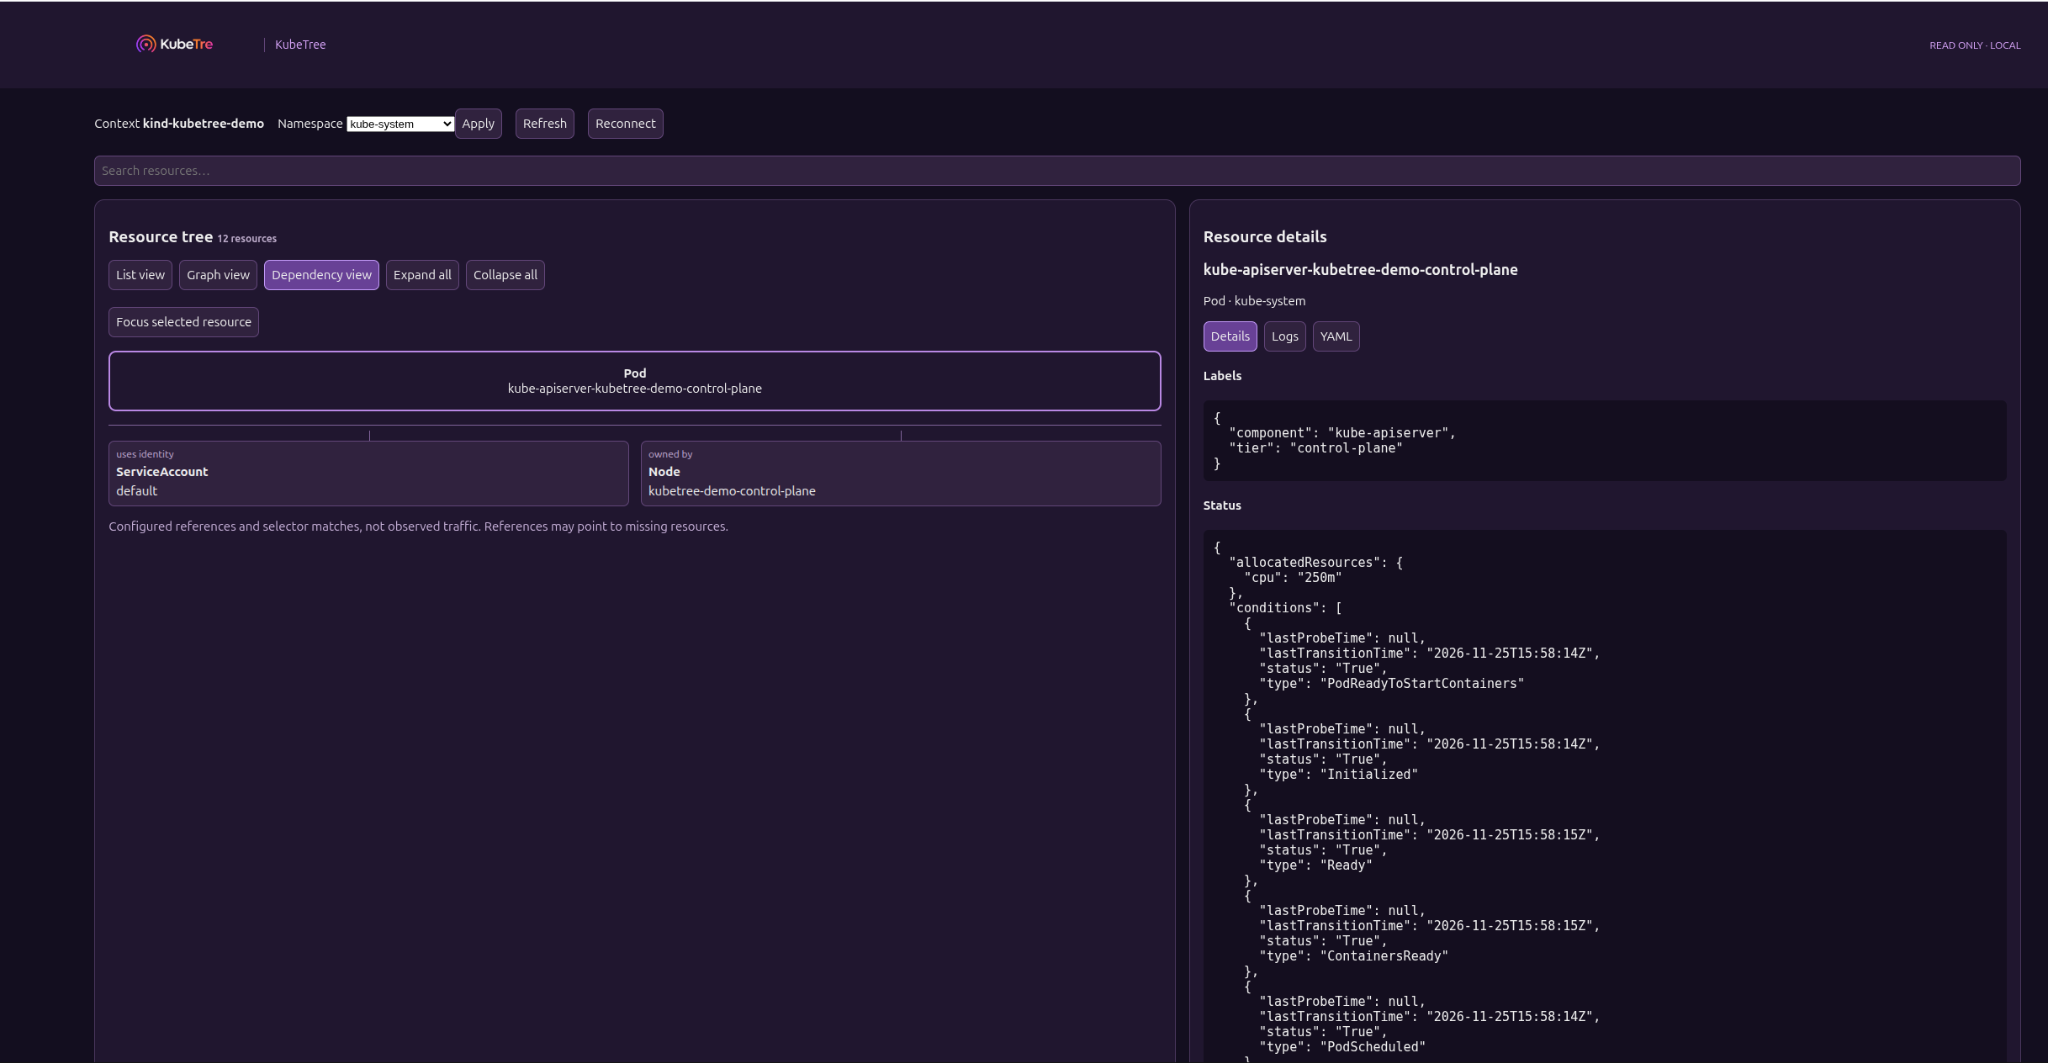
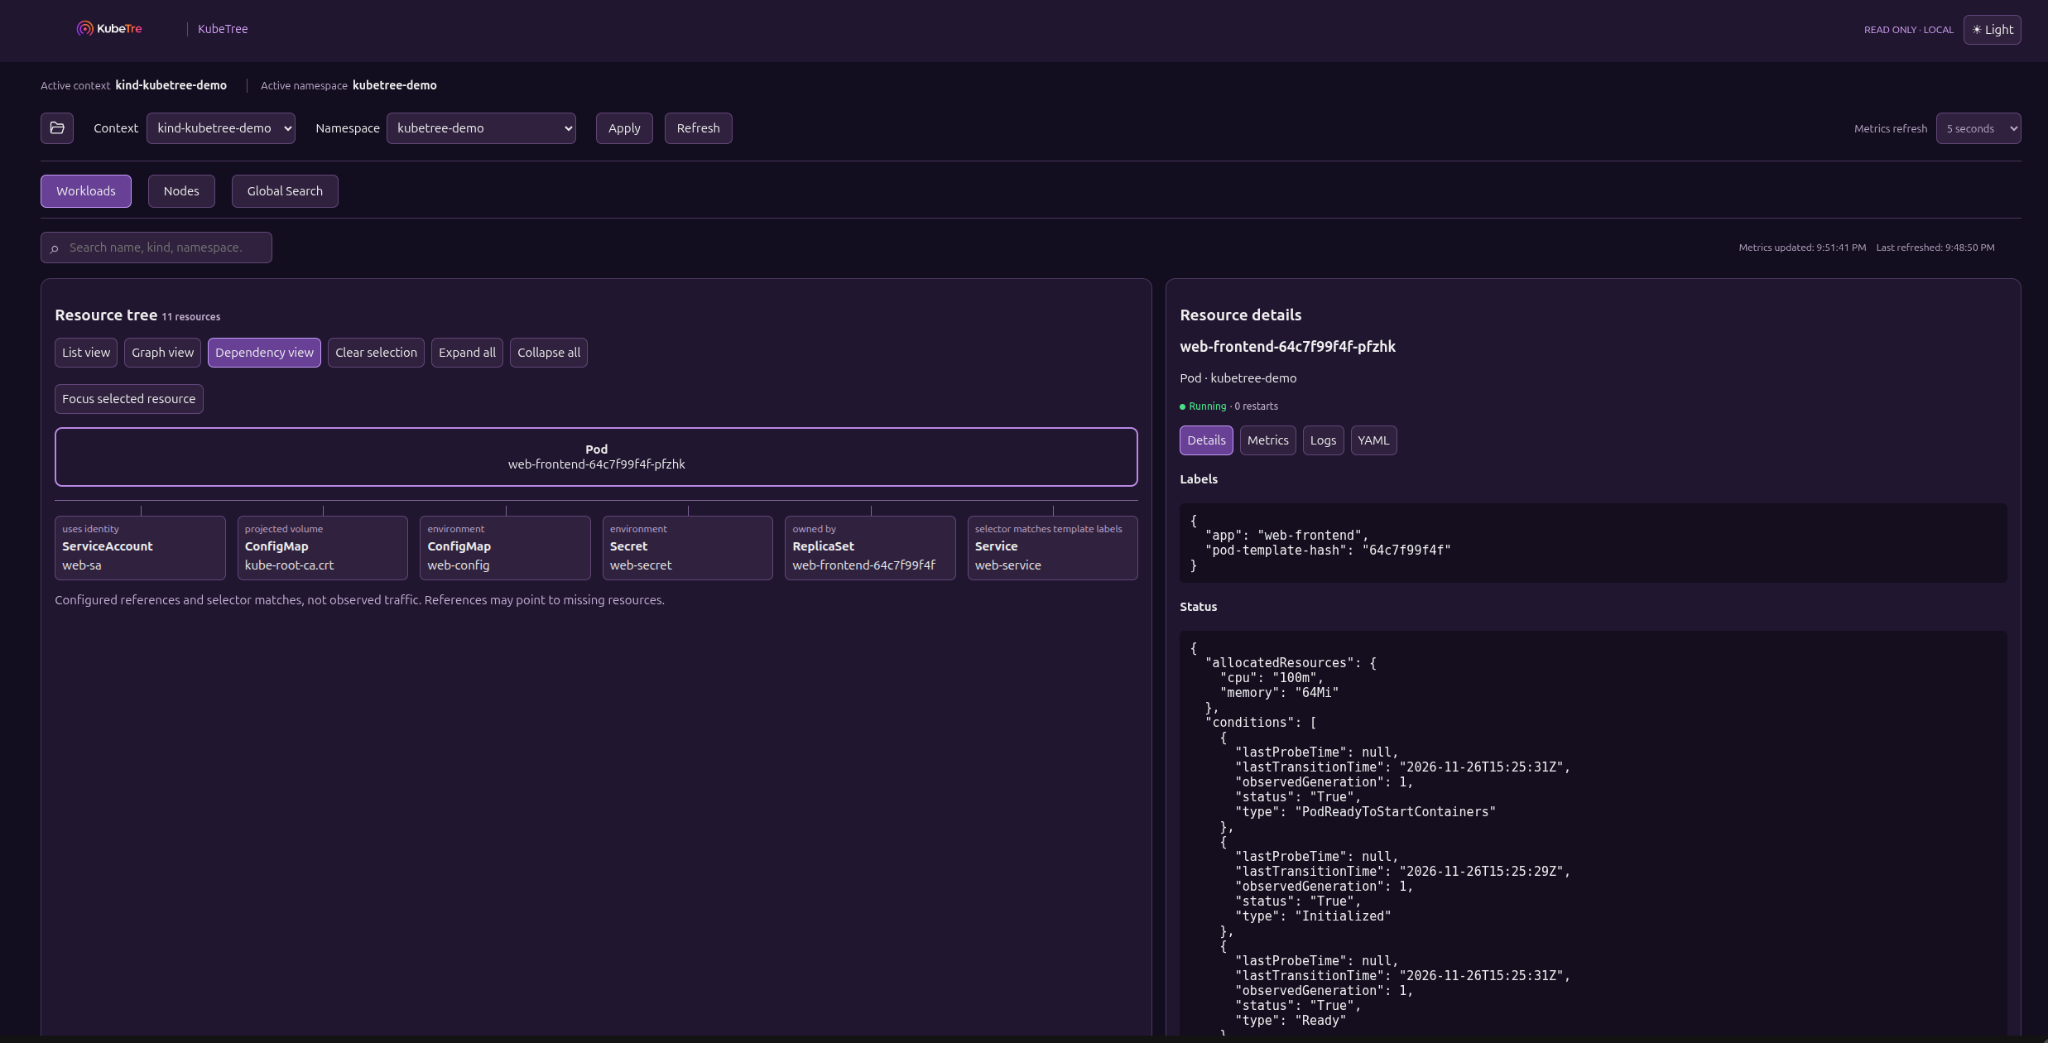
Update website for v0.1.7

diff --git a/index.html b/index.html
@@ -1,7 +1,16 @@
 <!doctype html><html lang="en"><head><meta charset="utf-8"><meta name="viewport" content="width=device-width,initial-scale=1"><meta name="description" content="KubeTree: local-first Kubernetes visualization and troubleshooting by KubeTre."><title>KubeTre — Visualize your Kubernetes</title><link rel="icon" href="assets/logo.png"><style>
-*{box-sizing:border-box}html{scroll-behavior:smooth}body{margin:0;background:#101020;color:#eeeefa;font:16px/1.65 system-ui,sans-serif}a{color:#bdb0ff;text-decoration:none}a:hover{text-decoration:underline}a:focus-visible,button:focus-visible{outline:3px solid #91e8df;outline-offset:4px}.wrap{max-width:1160px;margin:auto;padding:0 28px}header{border-bottom:1px solid #313047}nav{display:flex;align-items:center;justify-content:space-between;gap:20px;flex-wrap:wrap;padding:18px 0}.brand{display:flex;align-items:center;gap:12px;color:white;font-size:22px;font-weight:750}.brand img{width:48px;height:48px;object-fit:contain;border-radius:10px}nav .links{display:flex;gap:22px;flex-wrap:wrap;font-size:14px}.hero{padding:75px 0 48px;background:radial-gradient(ellipse at 75% 0%,#35275b 0%,transparent 60%)}.eyebrow{color:#b8a7ff;font-size:13px;font-weight:700;letter-spacing:2px;text-transform:uppercase}h1{font-size:clamp(40px,6vw,76px);line-height:1.06;letter-spacing:-.055em;margin:16px 0 22px;max-width:850px}h2{font-size:clamp(28px,4vw,42px);line-height:1.15;letter-spacing:-.035em;margin:0 0 16px}h3{margin:0 0 8px;font-size:20px}p{color:#bcbcd0;margin:0 0 20px}.lead{font-size:20px;max-width:720px}.buttons{display:flex;gap:12px;flex-wrap:wrap;margin:28px 0}.btn{display:inline-block;background:#a99afc;color:#131022;border-radius:9px;padding:12px 20px;font-weight:700}.btn.secondary{background:transparent;color:white;border:1px solid #69627f}.shot{display:block;width:100%;border:1px solid #49435e;border-radius:12px;box-shadow:0 20px 70px #0005}.hero .shot{margin-top:36px}section{padding:64px 0;border-top:1px solid #313047}.grid{display:grid;grid-template-columns:repeat(3,minmax(0,1fr));gap:16px}.tile,.panel{background:#19192d;border:1px solid #34334b;border-radius:14px;padding:24px}.tile p{margin:0}.examples{display:grid;grid-template-columns:1fr 1fr;gap:28px}.examples p{margin:10px 0 0}.downloads{display:grid;grid-template-columns:1fr 1fr;gap:24px}.dl{display:flex;justify-content:space-between;gap:10px;padding:11px 0;border-bottom:1px solid #34334b}pre{white-space:pre-wrap;overflow-wrap:anywhere;background:#0b0c17;padding:18px;border-radius:8px;color:#d4e9ff;font-size:14px}button{background:#332b51;color:white;border:1px solid #665981;border-radius:6px;padding:7px 12px;cursor:pointer}small,.muted{color:#a9a9c2}footer{padding:32px 0;border-top:1px solid #313047}footer .wrap{display:flex;justify-content:space-between;gap:16px;flex-wrap:wrap}@media(max-width:760px){.grid,.examples,.downloads{grid-template-columns:1fr}.wrap{padding:0 20px}.hero{padding-top:45px}section{padding:40px 0}nav .links{gap:14px}} </style></head><body><header><div class="wrap"><nav aria-label="Main navigation"><a class="brand" href="#home"><img src="assets/logo.png" alt="">KubeTre</a><div class="links"><a href="#features">Features</a><a href="#download">Download</a><a href="https://github.com/kubetre/kubetree/blob/main/docs/user-guide.md">Docs</a><a href="https://github.com/kubetre/kubetree">GitHub</a><a href="#support">Support</a></div></nav></div></header><main id="home"><div class="hero"><div class="wrap"><div class="eyebrow">Introducing KubeTree · v0.1.6</div><h1>See your cluster.<br>Understand every connection.</h1><p class="lead">Explore Kubernetes resource hierarchies, dependencies, configurations and logs with KubeTree — a lightweight, local-first visualization and troubleshooting tool.</p><div class="buttons"><a class="btn" href="#download">Download KubeTree</a><a class="btn secondary" href="https://github.com/kubetre/kubetree">View on GitHub ↗</a></div><small>Local-first · Read-only exploration · No in-cluster agent</small><img class="shot" src="assets/graph-view.png" alt="KubeTree graph view of Kubernetes resources"></div></div>
+*{box-sizing:border-box}html{scroll-behavior:smooth}body{margin:0;background:#101020;color:#eeeefa;font:16px/1.65 system-ui,sans-serif}a{color:#bdb0ff;text-decoration:none}a:hover{text-decoration:underline}a:focus-visible,button:focus-visible{outline:3px solid #91e8df;outline-offset:4px}.wrap{max-width:1160px;margin:auto;padding:0 28px}header{border-bottom:1px solid #313047}nav{display:flex;align-items:center;justify-content:space-between;gap:20px;flex-wrap:wrap;padding:18px 0}.brand{display:flex;align-items:center;gap:12px;color:white;font-size:22px;font-weight:750}.brand img{width:48px;height:48px;object-fit:contain;border-radius:10px}nav .links{display:flex;gap:22px;flex-wrap:wrap;font-size:14px}.hero{padding:75px 0 48px;background:radial-gradient(ellipse at 75% 0%,#35275b 0%,transparent 60%)}.eyebrow{color:#b8a7ff;font-size:13px;font-weight:700;letter-spacing:2px;text-transform:uppercase}h1{font-size:clamp(40px,6vw,76px);line-height:1.06;letter-spacing:-.055em;margin:16px 0 22px;max-width:850px}h2{font-size:clamp(28px,4vw,42px);line-height:1.15;letter-spacing:-.035em;margin:0 0 16px}h3{margin:0 0 8px;font-size:20px}p{color:#bcbcd0;margin:0 0 20px}.lead{font-size:20px;max-width:720px}.buttons{display:flex;gap:12px;flex-wrap:wrap;margin:28px 0}.btn{display:inline-block;background:#a99afc;color:#131022;border-radius:9px;padding:12px 20px;font-weight:700}.btn.secondary{background:transparent;color:white;border:1px solid #69627f}.shot{display:block;width:100%;border:1px solid #49435e;border-radius:12px;box-shadow:0 20px 70px #0005}.hero .shot{margin-top:36px}section{padding:64px 0;border-top:1px solid #313047}.grid{display:grid;grid-template-columns:repeat(3,minmax(0,1fr));gap:16px}.tile,.panel{background:#19192d;border:1px solid #34334b;border-radius:14px;padding:24px}.tile p{margin:0}.examples{display:grid;grid-template-columns:1fr 1fr;gap:28px}.examples p{margin:10px 0 0}.downloads{display:grid;grid-template-columns:1fr 1fr;gap:24px}.dl{display:flex;justify-content:space-between;gap:10px;padding:11px 0;border-bottom:1px solid #34334b}pre{white-space:pre-wrap;overflow-wrap:anywhere;background:#0b0c17;padding:18px;border-radius:8px;color:#d4e9ff;font-size:14px}button{background:#332b51;color:white;border:1px solid #665981;border-radius:6px;padding:7px 12px;cursor:pointer}small,.muted{color:#a9a9c2}footer{padding:32px 0;border-top:1px solid #313047}footer .wrap{display:flex;justify-content:space-between;gap:16px;flex-wrap:wrap}@media(max-width:760px){.grid,.examples,.downloads{grid-template-columns:1fr}.wrap{padding:0 20px}.hero{padding-top:45px}section{padding:40px 0}nav .links{gap:14px}} </style></head><body><header><div class="wrap"><nav aria-label="Main navigation"><a class="brand" href="#home"><img src="assets/logo.png" alt="">KubeTre</a><div class="links"><a href="#features">Features</a><a href="#download">Download</a><a href="https://github.com/kubetre/kubetree/blob/main/docs/user-guide.md">Docs</a><a href="https://github.com/kubetre/kubetree">GitHub</a><a href="#support">Support</a></div></nav></div></header><main id="home"><div class="hero"><div class="wrap"><div class="eyebrow">Introducing KubeTree · v0.1.7</div><h1>See your cluster.<br>Understand every connection.</h1><p class="lead">Explore Kubernetes resource hierarchies, dependencies, configurations and logs with KubeTree — a lightweight, local-first visualization and troubleshooting tool.</p><div class="buttons"><a class="btn" href="#download">Download KubeTree</a><a class="btn secondary" href="https://github.com/kubetre/kubetree">View on GitHub ↗</a></div><small>Local-first · Read-only exploration · No in-cluster agent</small><img class="shot" src="assets/graph-view.png" alt="KubeTree graph view of Kubernetes resources"></div></div>
 <section id="features"><div class="wrap"><div class="eyebrow">Explore with clarity</div><h2>Your Kubernetes resources, connected.</h2><div class="grid"><div class="tile"><h3>Resource hierarchy</h3><p>Explore deployments, replica sets and pods in list and graph views.</p></div><div class="tile"><h3>Dependencies</h3><p>Inspect configured references and selector matches between resources.</p></div><div class="tile"><h3>Container logs</h3><p>Inspect, filter, copy and refresh container logs.</p></div><div class="tile"><h3>Configuration</h3><p>Inspect YAML, labels and related ConfigMaps.</p></div><div class="tile"><h3>Secrets &amp; certificates</h3><p>Inspect authorized secrets and supported TLS certificate details on demand.</p></div><div class="tile"><h3>Local-first</h3><p>Uses your existing kubectl configuration and Kubernetes permissions.</p></div></div></div></section>
 <section><div class="wrap"><div class="eyebrow">Product preview</div><h2>See KubeTree in action.</h2><div class="examples"><div><img loading="lazy" class="shot" src="assets/list-view.png" alt="Resource list and details"><p>Resource list and selected pod details</p></div><div><img loading="lazy" class="shot" src="assets/dependency-view.png" alt="Resource dependency visualization"><p>Configured resource dependencies, not live network traffic</p></div><div><img loading="lazy" class="shot" src="assets/container-logs.png" alt="Container log viewer"><p>Container logs and filtering</p></div></div></div></section>
-<section id="download"><div class="wrap"><div class="eyebrow">Get started</div><h2>Download. Run. Explore.</h2><p>Requires kubectl on your PATH, a working kubeconfig and appropriate cluster access. No Go or Node.js installation is needed for the downloaded executable.</p><div class="downloads"><div class="panel"><h3>Executables · v0.1.6</h3><div class="dl"><span>Linux x86-64</span><a href="https://github.com/kubetre/kubetree/releases/latest/download/kubetree-linux-amd64">Download</a></div><div class="dl"><span>Linux ARM64</span><a href="https://github.com/kubetre/kubetree/releases/latest/download/kubetree-linux-arm64">Download</a></div><div class="dl"><span>Windows x86-64</span><a href="https://github.com/kubetre/kubetree/releases/latest/download/kubetree-windows-amd64.exe">Download</a></div><div class="dl"><span>macOS Intel</span><a href="https://github.com/kubetre/kubetree/releases/latest/download/kubetree-darwin-amd64">Download</a></div><div class="dl"><span>macOS Apple Silicon</span><a href="https://github.com/kubetre/kubetree/releases/latest/download/kubetree-darwin-arm64">Download</a></div><p style="margin-top:16px"><a href="https://github.com/kubetre/kubetree/releases">All releases &amp; checksums ↗</a></p><small>Linux x86-64 runtime-tested; other targets built by CI, runtime testing pending. Binaries are unsigned.</small></div><div class="panel"><h3>Linux quick start</h3><p>Open a terminal in the download directory.</p><pre id="linux">chmod +x kubetree-linux-amd64
+
+<section id="new-features"><div class="wrap">
+<h2>Global Search, Metrics and Nodes</h2>
+<p>Explore resource metadata, switch cluster contexts and inspect resource usage.</p>
+<div class="examples">
+<div><img class="shot" src="assets/global-search.png" alt="Global Search"><p>Global Search</p></div>
+<div><img class="shot" src="assets/metrics.png" alt="Metrics"><p>CPU and memory metrics</p></div>
+<div><img class="shot" src="assets/nodes.png" alt="Nodes"><p>Cluster nodes</p></div>
+</div></div></section>
+<section id="download"><div class="wrap"><div class="eyebrow">Get started</div><h2>Download. Run. Explore.</h2><p>Requires kubectl on your PATH, a working kubeconfig and appropriate cluster access. No Go or Node.js installation is needed for the downloaded executable.</p><div class="downloads"><div class="panel"><h3>Executables · v0.1.7</h3><div class="dl"><span>Linux x86-64</span><a href="https://github.com/kubetre/kubetree/releases/latest/download/kubetree-linux-amd64">Download</a></div><div class="dl"><span>Linux ARM64</span><a href="https://github.com/kubetre/kubetree/releases/latest/download/kubetree-linux-arm64">Download</a></div><div class="dl"><span>Windows x86-64</span><a href="https://github.com/kubetre/kubetree/releases/latest/download/kubetree-windows-amd64.exe">Download</a></div><div class="dl"><span>macOS Intel</span><a href="https://github.com/kubetre/kubetree/releases/latest/download/kubetree-darwin-amd64">Download</a></div><div class="dl"><span>macOS Apple Silicon</span><a href="https://github.com/kubetre/kubetree/releases/latest/download/kubetree-darwin-arm64">Download</a></div><p style="margin-top:16px"><a href="https://github.com/kubetre/kubetree/releases">All releases &amp; checksums ↗</a></p><small>Linux x86-64 runtime-tested; other targets built by CI, runtime testing pending. Binaries are unsigned.</small></div><div class="panel"><h3>Linux quick start</h3><p>Open a terminal in the download directory.</p><pre id="linux">chmod +x kubetree-linux-amd64
 ./kubetree-linux-amd64</pre><button type="button" id="copy">Copy commands</button><p style="margin-top:18px">Open <a href="http://127.0.0.1:8080">http://127.0.0.1:8080</a> after starting KubeTree.</p><p>Port occupied? Run with <code>-listen 127.0.0.1:8081</code>. Checksum verification is recommended before running downloaded files.</p><a href="https://github.com/kubetre/kubetree/blob/main/docs/user-guide.md">Other platforms &amp; build from source ↗</a></div></div></div></section>
 <section id="support"><div class="wrap"><div class="eyebrow">Community &amp; support</div><h2>Contact &amp; Support</h2><p>Get in touch with the KubeTre team.</p><div class="grid"><div class="tile"><h3>General enquiries</h3><p>General questions and collaboration.</p><a href="mailto:info@kubetre.com">info@kubetre.com</a></div><div class="tile"><h3>Product support</h3><p>Questions and assistance with KubeTree.</p><a href="mailto:support@kubetre.com">support@kubetre.com</a></div><div class="tile"><h3>Security reports</h3><p>Report vulnerabilities privately.</p><a href="mailto:security@kubetre.com">security@kubetre.com</a></div><div class="tile"><h3>Community support</h3><p>Non-sensitive bug reports and feature requests.</p><a href="https://github.com/kubetre/kubetree/issues">GitHub Issues ↗</a></div><div class="tile"><h3>Documentation</h3><p>Installation, usage and troubleshooting.</p><a href="https://github.com/kubetre/kubetree/blob/main/docs/user-guide.md">Read the guide ↗</a></div></div></div></section></main><footer><div class="wrap"><small>© 2026 KubeTre. Built for the Kubernetes community.</small><div><a href="https://github.com/kubetre/kubetree">Source code</a> · <a href="#support">Support</a></div></div></footer><script>document.getElementById('copy').addEventListener('click',async function(){try{await navigator.clipboard.writeText(document.getElementById('linux').textContent);this.textContent='Copied'}catch(e){this.textContent='Select and copy the commands'}})</script></body></html>
